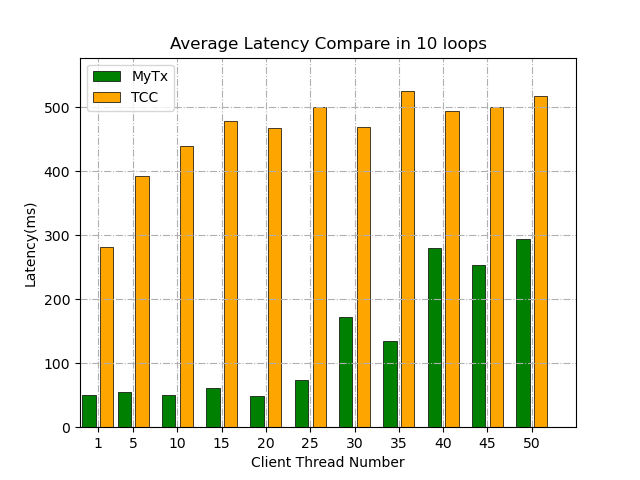
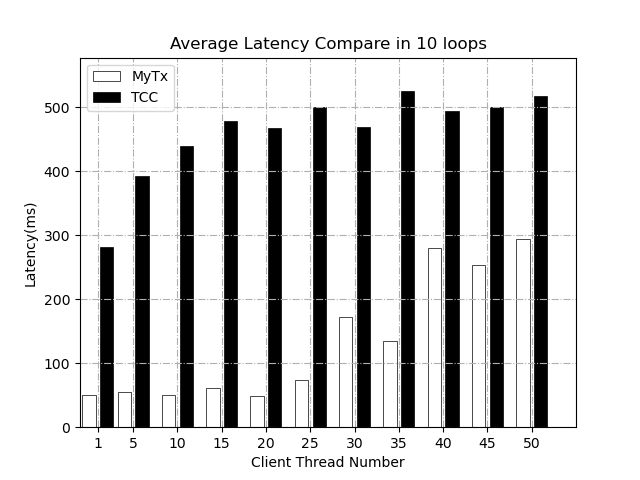
更新图片为黑白

Changed region(s): [[0.125, 0.1875, 0.875, 0.9062], [0.125, 0.125, 0.1875, 0.2188]]

diff --git a/main.py b/main.py
@@ -44,9 +44,9 @@ def plotCmpModelThroughput(MyTx, TCC, loop):
     plt.ylabel("Throughput(TPS)")
     plt.xticks(MyTx.get('thread_num'), MyTx.get('thread_num'))
     plt.title(title)
-    plt.bar(MyTx.get('thread_num') - 1, MyTx.get("throughput"), color='green', label="MyTx", align="center", width=1.5,
+    plt.bar(MyTx.get('thread_num') - 1, MyTx.get("throughput"), color='white', label="MyTx", align="center", width=1.5,
             edgecolor="black", linewidth=0.5)
-    plt.bar(TCC.get('thread_num') + 1, TCC.get("throughput"), color='orange', label="TCC", align="center", width=1.5,
+    plt.bar(TCC.get('thread_num') + 1, TCC.get("throughput"), color='black', label="TCC", align="center", width=1.5,
             edgecolor="black", linewidth=0.5)
     plt.legend(loc='upper left')
     plt.savefig(title)
@@ -65,9 +65,9 @@ def plotCmpModel(MyTx, TCC, loop):
     plt.ylabel("Latency(ms)")
     plt.xticks(MyTx.get('thread_num'), MyTx.get('thread_num'))
     plt.title(title)
-    plt.bar(MyTx.get('thread_num') - 1, MyTx.get("average"), color='green', label="MyTx", align="center", width=1.5,
+    plt.bar(MyTx.get('thread_num') - 1, MyTx.get("average"), color='white', label="MyTx", align="center", width=1.5,
             edgecolor="black", linewidth=0.5)
-    plt.bar(TCC.get('thread_num') + 1, TCC.get("average"), color='orange', label="TCC", align="center", width=1.5,
+    plt.bar(TCC.get('thread_num') + 1, TCC.get("average"), color='black', label="TCC", align="center", width=1.5,
             edgecolor="black", linewidth=0.5)
     plt.legend(loc='upper left')
     plt.savefig(title)
@@ -87,13 +87,13 @@ def plotSingleModel(MyTx, title, loop):
     plt.xlabel('Client Thread Number')
     plt.ylabel("Latency(ms)")
     plt.title(title)
-    plt.plot(MyTx.get('thread_num'), MyTx.get("min"), color='red', label="min", marker='v')
-    plt.plot(MyTx.get('thread_num'), MyTx.get("average"), color='orange', label="average", marker='v', linestyle='--')
-    plt.plot(MyTx.get('thread_num'), MyTx.get("median"), color='yellow', label="median", marker='v', linestyle='-.')
-    plt.plot(MyTx.get('thread_num'), MyTx.get("90%line"), color='green', label="90%line", marker='v', linestyle=':')
-    plt.plot(MyTx.get('thread_num'), MyTx.get("95%line"), color='indigo', label="95%line", marker='v')
-    plt.plot(MyTx.get('thread_num'), MyTx.get("99%line"), color='blue', label="99%line", marker='v', linestyle='--')
-    plt.plot(MyTx.get('thread_num'), MyTx.get("max"), color='purple', label="max", marker='v', linestyle='-.')
+    plt.plot(MyTx.get('thread_num'), MyTx.get("min"), color='black', label="min", marker='v', linestyle='-')
+    plt.plot(MyTx.get('thread_num'), MyTx.get("average"), color='black', label="average", marker='o')
+    plt.plot(MyTx.get('thread_num'), MyTx.get("median"), color='black', label="median", marker='x')
+    plt.plot(MyTx.get('thread_num'), MyTx.get("90%line"), color='black', label="90%line", marker='^', linestyle='--')
+    plt.plot(MyTx.get('thread_num'), MyTx.get("95%line"), color='black', label="95%line", marker='+')
+    plt.plot(MyTx.get('thread_num'), MyTx.get("99%line"), color='black', label="99%line", marker='<', linestyle='-.')
+    plt.plot(MyTx.get('thread_num'), MyTx.get("max"), color='black', label="max", marker='>', linestyle=':')
     plt.legend(loc='upper left')
     plt.savefig(title)
     plt.show()
